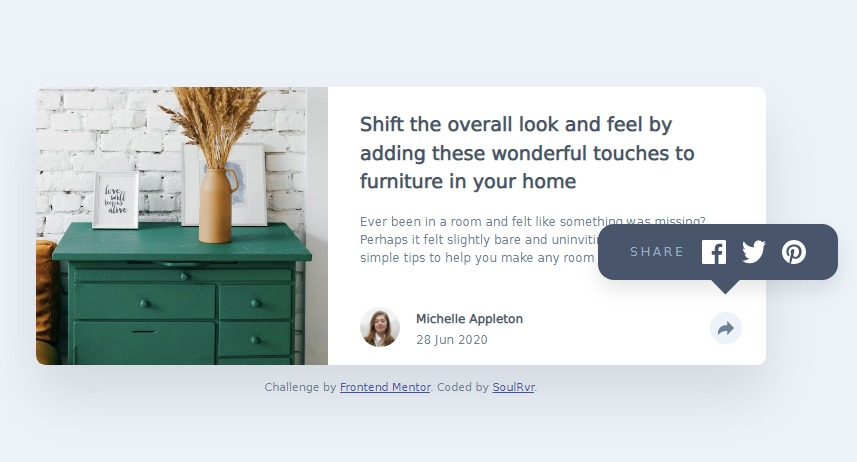
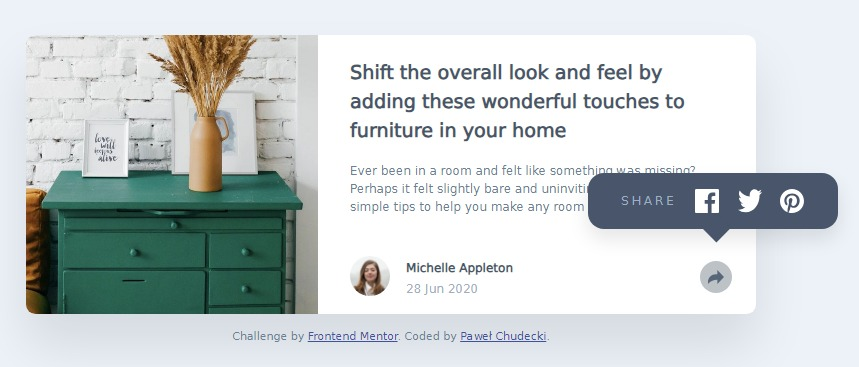
tab movement update

Changed region(s): [[0.0303, 0.0899, 0.9708, 0.8692], [0.273, 0.8992, 0.6371, 0.9292]]

diff --git a/style.css b/style.css
@@ -125,7 +125,7 @@ button:hover {
   justify-content: space-around;
   gap: 1rem;
   opacity: 0;
-  transition: opacity 0.5s;
+  transition: all 0.5s;
   padding: 2rem 8rem 2rem 3.5rem;
   left: -17.5rem;
   position: absolute;
@@ -147,6 +147,7 @@ button:hover {
   width: 1.3rem;
   height: 1.3rem;
   transform: rotate(45deg);
+  transition: all 0.5s;
 }
 
 /* footer */
@@ -217,7 +218,7 @@ footer a:hover {
     left: -6.5rem;
   }
   .arrow {
-    left: 7.3rem;
+    left: 7.4rem;
   }
 }
 

diff --git a/index.html b/index.html
@@ -58,7 +58,9 @@
       <a href="https://www.frontendmentor.io?ref=challenge" target="_blank"
         >Frontend Mentor</a
       >. Coded by
-      <a href="https://www.frontendmentor.io/profile/SoulRvr29">SoulRvr</a>.
+      <a href="https://www.frontendmentor.io/profile/SoulRvr29"
+        >Paweł Chudecki</a
+      >.
     </footer>
     <script src="script.js"></script>
   </body>
